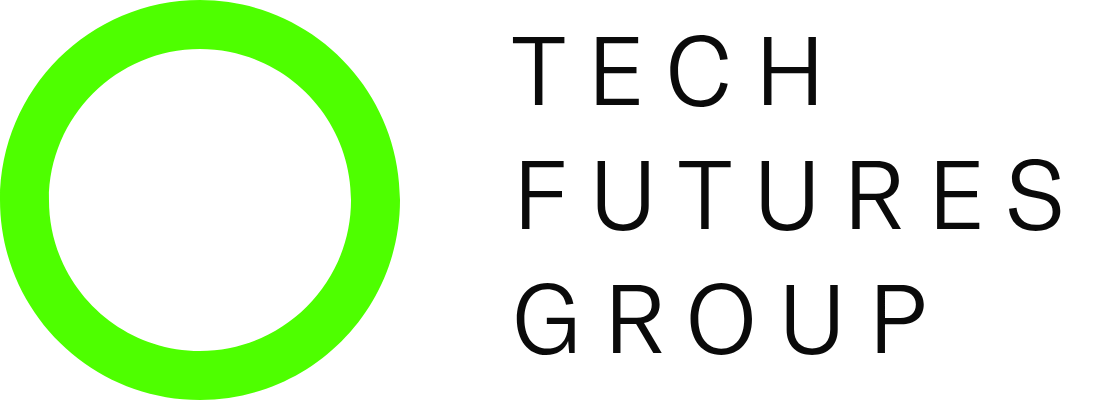
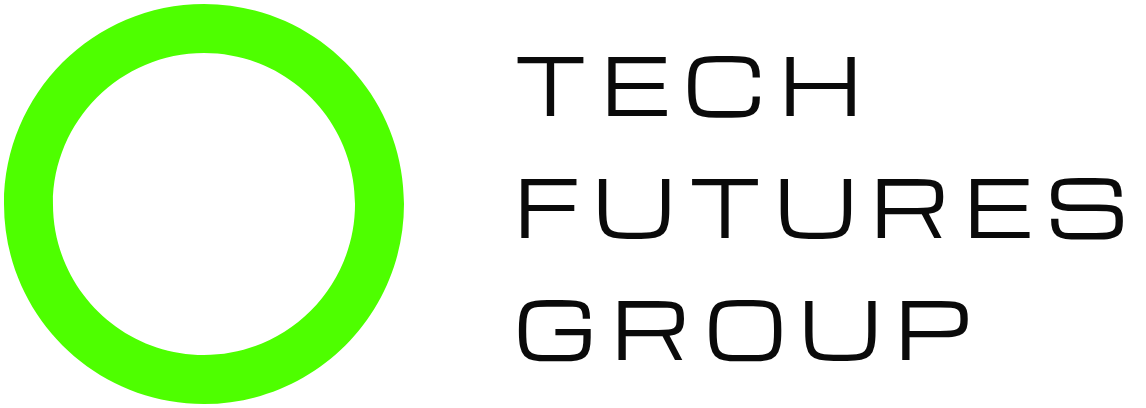
TFG lockups in Michroma + all-black variant for the green background
Mirror of the mysbdc-tools update: lockup text set in Michroma, and a
new all-black lockup used on saturated light backgrounds (electric
green) where the green ring vanished, selected by a channel-spread
vividness check in the renderer.

Claude-Session: https://claude.ai/code/session_01VHCZkogzmbPzr22wfa6sqt

diff --git a/motion/src/lib/motion/render.ts b/motion/src/lib/motion/render.ts
@@ -870,13 +870,18 @@ function drawEndcardScene(
   const { u, doc, assets } = sc;
   const scheme = resolveScheme(scene);
   const darkBg = isDark(scheme.bg);
-  // Program logos (Pro studio) win over the built-in SBDC marks;
+  // Saturated light backgrounds (e.g. TFG electric green) need the
+  // all-black mark — a colored ring would vanish into them.
+  const vividBg = !darkBg && isVivid(scheme.bg);
+  // Program logos (Pro studio) win over the built-in marks;
   // '-light' is the light-colored mark for dark backgrounds.
   const logo =
     (darkBg
       ? assets['__logo-brand-light'] ?? assets['__logo-brand-dark']
       : assets['__logo-brand-dark'] ?? assets['__logo-brand-light']) ??
-    assets[darkBg ? '__logo-white' : '__logo-blue'];
+    (darkBg
+      ? assets['__logo-white']
+      : (vividBg ? assets['__logo-black'] ?? assets['__logo-blue'] : assets['__logo-blue']));
 
   const logoH = logo ? 96 * u : 0;
   const kickerPx = 22 * u;
@@ -951,6 +956,13 @@ function isDark(hex: string): boolean {
   const n = parseInt(hex.slice(1), 16);
   const r = (n >> 16) & 255, g = (n >> 8) & 255, b = n & 255;
   return 0.2126 * r + 0.7152 * g + 0.0722 * b < 140;
+}
+
+/** Strongly saturated color (channel spread), vs. near-neutral whites/grays. */
+function isVivid(hex: string): boolean {
+  const n = parseInt(hex.slice(1), 16);
+  const r = (n >> 16) & 255, g = (n >> 8) & 255, b = n & 255;
+  return Math.max(r, g, b) - Math.min(r, g, b) > 100;
 }
 
 // ── Top-level frame renderer ──────────────────────────

diff --git a/motion/src/components/motion/ProMotionStudio.tsx b/motion/src/components/motion/ProMotionStudio.tsx
@@ -118,7 +118,8 @@ export default function ProMotionStudio() {
     (async () => {
       for (const [id, url] of [
         ['__logo-white', '/tfg-lockup-light.png'],  // full lockup, dark backgrounds
-        ['__logo-blue', '/tfg-lockup-dark.png'],    // full lockup, light backgrounds
+        ['__logo-blue', '/tfg-lockup-dark.png'],    // full lockup, light neutral backgrounds
+        ['__logo-black', '/tfg-lockup-black.png'],  // all-black lockup, bright green background
       ] as const) {
         try {
           const img = await loadImage(url);
